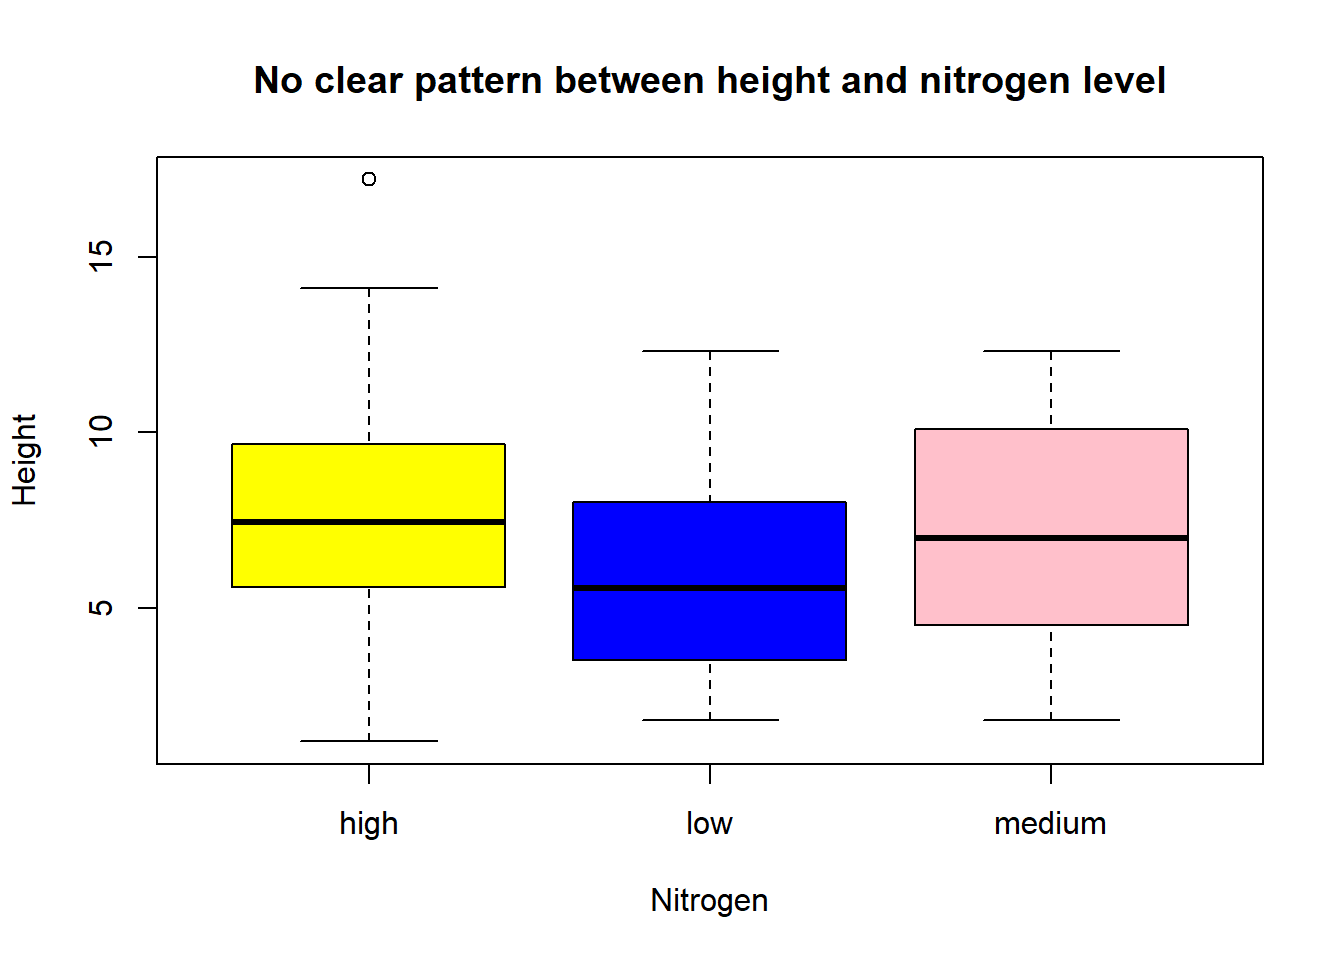
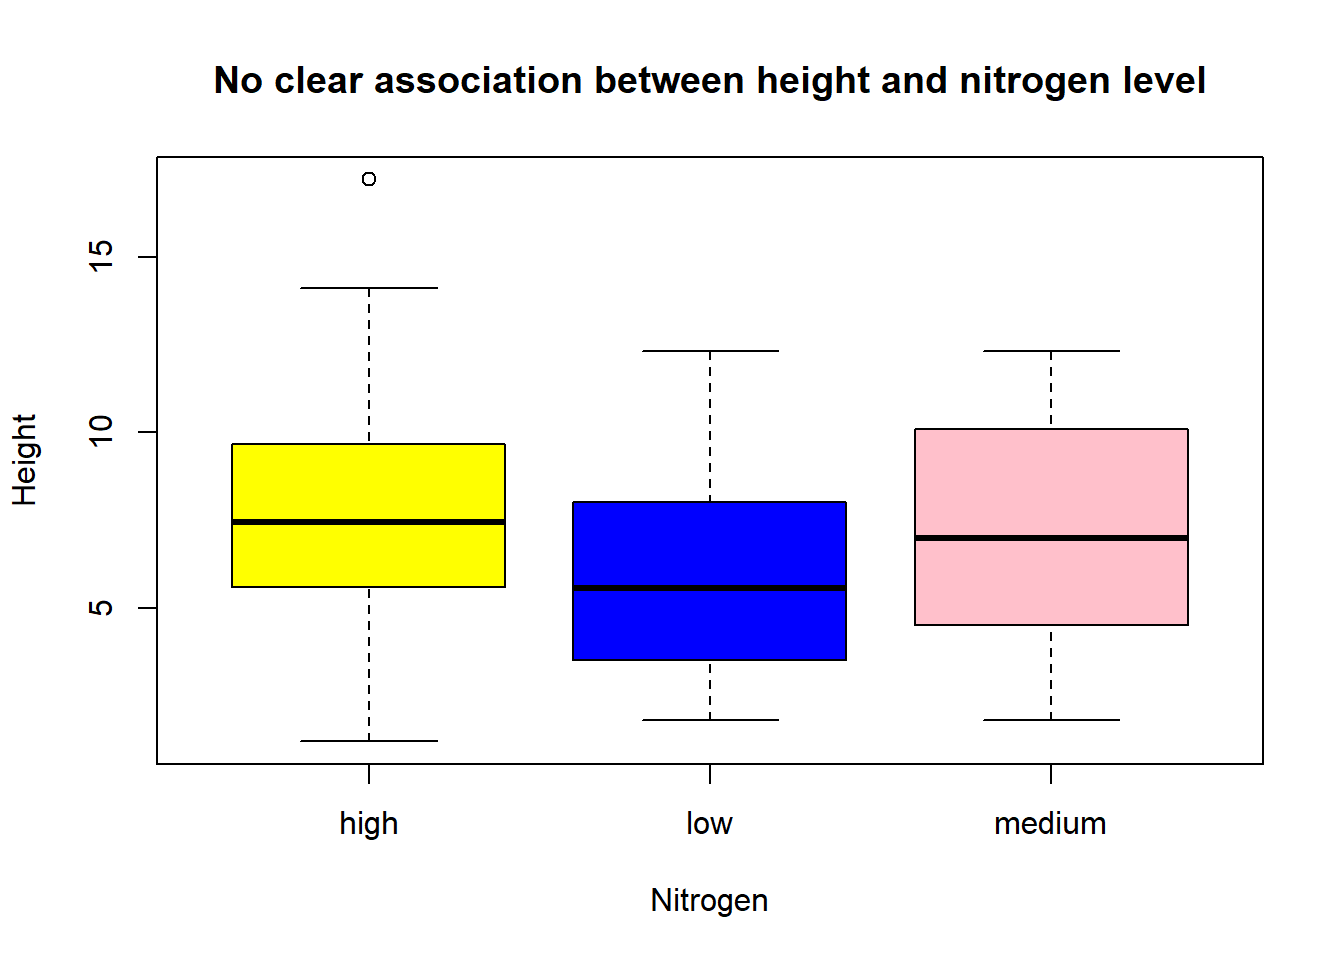
Clarified plot title; edited grammar.

Changed region(s): [[0.1562, 0.0625, 0.9062, 0.125]]

diff --git a/docs/01_the_r_environment.html b/docs/01_the_r_environment.html
@@ -217,8 +217,9 @@ ul.task-list li input[type="checkbox"] {
 <li>Sample size and power calculations</li>
 <li>Multivariable analysis (e.g., factor analysis, principal component analysis, and structural equations modeling)</li>
 </ul>
-<p>Even better, new tools become available in <strong>R</strong> all the time. As with other open source programming languages, everyone can examine and contribute to <strong>R</strong>’s code. Users constantly publish their own code “packages” (ready-to-use tools), which expand <strong>R</strong>’s base capabilities. As of March 2019, users have contributed over 13,700 packages to Comprehensive <strong>R</strong> Archive Network (CRAN), many of which perform complex statistical routines that are not (and may never be) available in other statistical software systems.</p>
-<p>You can choose your own way of using <strong>R</strong>. In Windows, there are several ways to use <strong>R</strong>. The standard <strong>R</strong> graphical unit interface (GUI) allows you to point and click to do many basic tasks. Another GUI is <a href="https://socialsciences.mcmaster.ca/jfox/Misc/Rcmdr/"><strong>R</strong> Commander</a>, developed by John Fox at McMaster University. <strong>R</strong> Commander displays the underlying <strong>R</strong> code for each analysis to help the user learn the programming language. <a href="http://sourceforge.net/projects/tinn-r/">Tinn-<strong>R</strong></a> is another GUI from Jose Claudio Faria. These GUIs are friendly and easy to grasp if you’re a beginner. But to use all of <strong>R</strong>’s capabilities you will need to do more than point and click.</p>
+<p>Even better, new tools become available in <strong>R</strong> all the time. As with other open source programming languages, everyone can examine and contribute to <strong>R</strong>’s code. Users constantly publish their own code packages to expand <strong>R</strong>’s capabilities. As of March 2019, users have contributed over 13,700 packages to Comprehensive <strong>R</strong> Archive Network (CRAN), many of which perform complex statistical routines that are not (and may never be) available in other statistical software systems.</p>
+<p>In Windows, there are several ways to use <strong>R</strong>. The standard <strong>R</strong> graphical unit interface (GUI) allows you to point and click to do many basic tasks. Another GUI is <a href="https://socialsciences.mcmaster.ca/jfox/Misc/Rcmdr/"><strong>R</strong> Commander</a>, developed by John Fox at McMaster University. <strong>R</strong> Commander displays the underlying <strong>R</strong> code for each analysis to help the user learn the programming language. <a href="http://sourceforge.net/projects/tinn-r/">Tinn-<strong>R</strong></a> is another GUI from Jose Claudio Faria.</p>
+<p>These GUIs are friendly and easy to grasp if you’re a beginner. But to use all of <strong>R</strong>’s capabilities you will need to do more than point and click.</p>
 <p>A more complete way of using <strong>R</strong> is through an integrated development environment (IDE), which, in short, helps you code. The most popular IDE for <strong>R</strong> is <a href="https://www.posit.com"><strong>R</strong>Studio</a>, which organizes the user’s screen into panes that display scripts, objects, graphics, and the <strong>R</strong> console.</p>
 <p>In these notes, we will use <strong>R</strong>Studio a lot. The goal is for you to start taking full advantage of <strong>R</strong>’s capabilities.</p>
 <!--
@@ -232,15 +233,15 @@ original analysis and to investigate other approaches.
 </section>
 <section id="why-isnt-everyone-a-user" class="level2" data-number="1.2">
 <h2 data-number="1.2" class="anchored" data-anchor-id="why-isnt-everyone-a-user"><span class="header-section-number">1.2</span> Why Isn’t Everyone a Use<strong>R</strong>?</h2>
-<p>Maybe because many users of statistics only learn how to use one statistical software, often the one taught in their first statistics course. In the past, <strong>R</strong> was almost never this first language (although nowadays more schools are teaching how to use it).</p>
-<p>Besides, even if people have used <strong>R</strong>, they can struggle to get comfortable and productive with it, especially if they have little coding experience. Typing commands explicitly is more difficult than pointing and clicking. Also, each package has its own rules to learn. You can find a lot of good help for popular packages written by professional developers, but not so much for smaller packages written by other common users. Worst of all, some of the messages <strong>R</strong> displays if you make a mistake are uninformative, so fixing the problem can be difficult.</p>
+<p>Many users of statistics only learn how to use one statistical software, often the one taught in their first statistics course. In the past, <strong>R</strong> rarely was this first language, but nowadays more schools are teaching how to use it.</p>
+<p>Some people have used <strong>R</strong>, but struggles to get comfortable and productive with it, especially if they had little coding experience. Typing commands explicitly is more difficult than pointing and clicking. Also, each package has its own rules to learn. You can find a lot of good help for popular packages written by professional developers, but not so much for smaller packages written by other common users. Worst of all, some of the messages <strong>R</strong> displays if you make a mistake are uninformative, so fixing the problem can be difficult.</p>
 <p>Don’t get frustrated! You don’t have to be an expert programmer to use <strong>R</strong>. The benefits are worth spending some time up front.</p>
 </section>
 <section id="suggestions-for-learning-r" class="level2" data-number="1.3">
 <h2 data-number="1.3" class="anchored" data-anchor-id="suggestions-for-learning-r"><span class="header-section-number">1.3</span> Suggestions for Learning <strong>R</strong></h2>
 <ul>
 <li>Learn interactively! Retype and experiment with lots of sample code; you won’t break it. These notes contain many code examples and you can find many more online.</li>
-<li>Don’t worry about getting errors. Even experienced <strong>R</strong> users make errors all the time. Besides, you can learn a lot from error messages.</li>
+<li>Don’t worry about getting errors. Even experienced <strong>R</strong> users make mistakes all the time. And you can learn a lot from error messages.</li>
 <li>Ask other <strong>R</strong> users for help.</li>
 <li>Some useful links are:
 <ul>
@@ -257,13 +258,12 @@ original analysis and to investigate other approaches.
 </section>
 <section id="how-to-get-r" class="level2" data-number="1.4">
 <h2 data-number="1.4" class="anchored" data-anchor-id="how-to-get-r"><span class="header-section-number">1.4</span> How to get <strong>R</strong></h2>
-<p><strong>R</strong> is already installed on the lab workstations. The following information is useful if you need to install <strong>R</strong> on another machine.</p>
 <p>At the <a href="https://www.r-project.org"><strong>R</strong> Project Web Page</a> the most important link is at the left hand side of the screen, under the “Download” heading. Click on the CRAN link (Comprehensive <strong>R</strong> Archive Network), and, after you choose one of the U.S.&nbsp;mirrors, you will be taken to the page that you will use to download everything <strong>R</strong>-related.</p>
 <p>Once you find the CRAN web page, take the following steps to obtain <strong>R</strong>:</p>
 <ol type="1">
 <li>Click on “Download <strong>R</strong> for X” that best describes your operating system (Linux, OS X, Windows).</li>
 <li>When using Windows, click on the “base” subdirectory. This will allow you to download the base <strong>R</strong> packages.</li>
-<li>Click the “Download <strong>R</strong> 4.X.X for Windows” link. <strong>R</strong> is updated quite frequently. At the time of this printing, version 4.4.0 is available. Save the <code>.exe</code> file somewhere on your computer.</li>
+<li>Click the “Download <strong>R</strong> 4.X.X for Windows” link. <strong>R</strong> is updated quite frequently. At the time of this printing, version 4.4.1 is available. Save the <code>.exe</code> file somewhere on your computer.</li>
 <li>Double-click on the <code>.exe</code> file once it is downloaded. An installation window will appear to guide you through the setup of <strong>R</strong> in your machine.</li>
 <li>Once you finish, you should have an <strong>R</strong> icon on your desktop that gives you a shortcut to the <strong>R</strong> system.</li>
 </ol>
